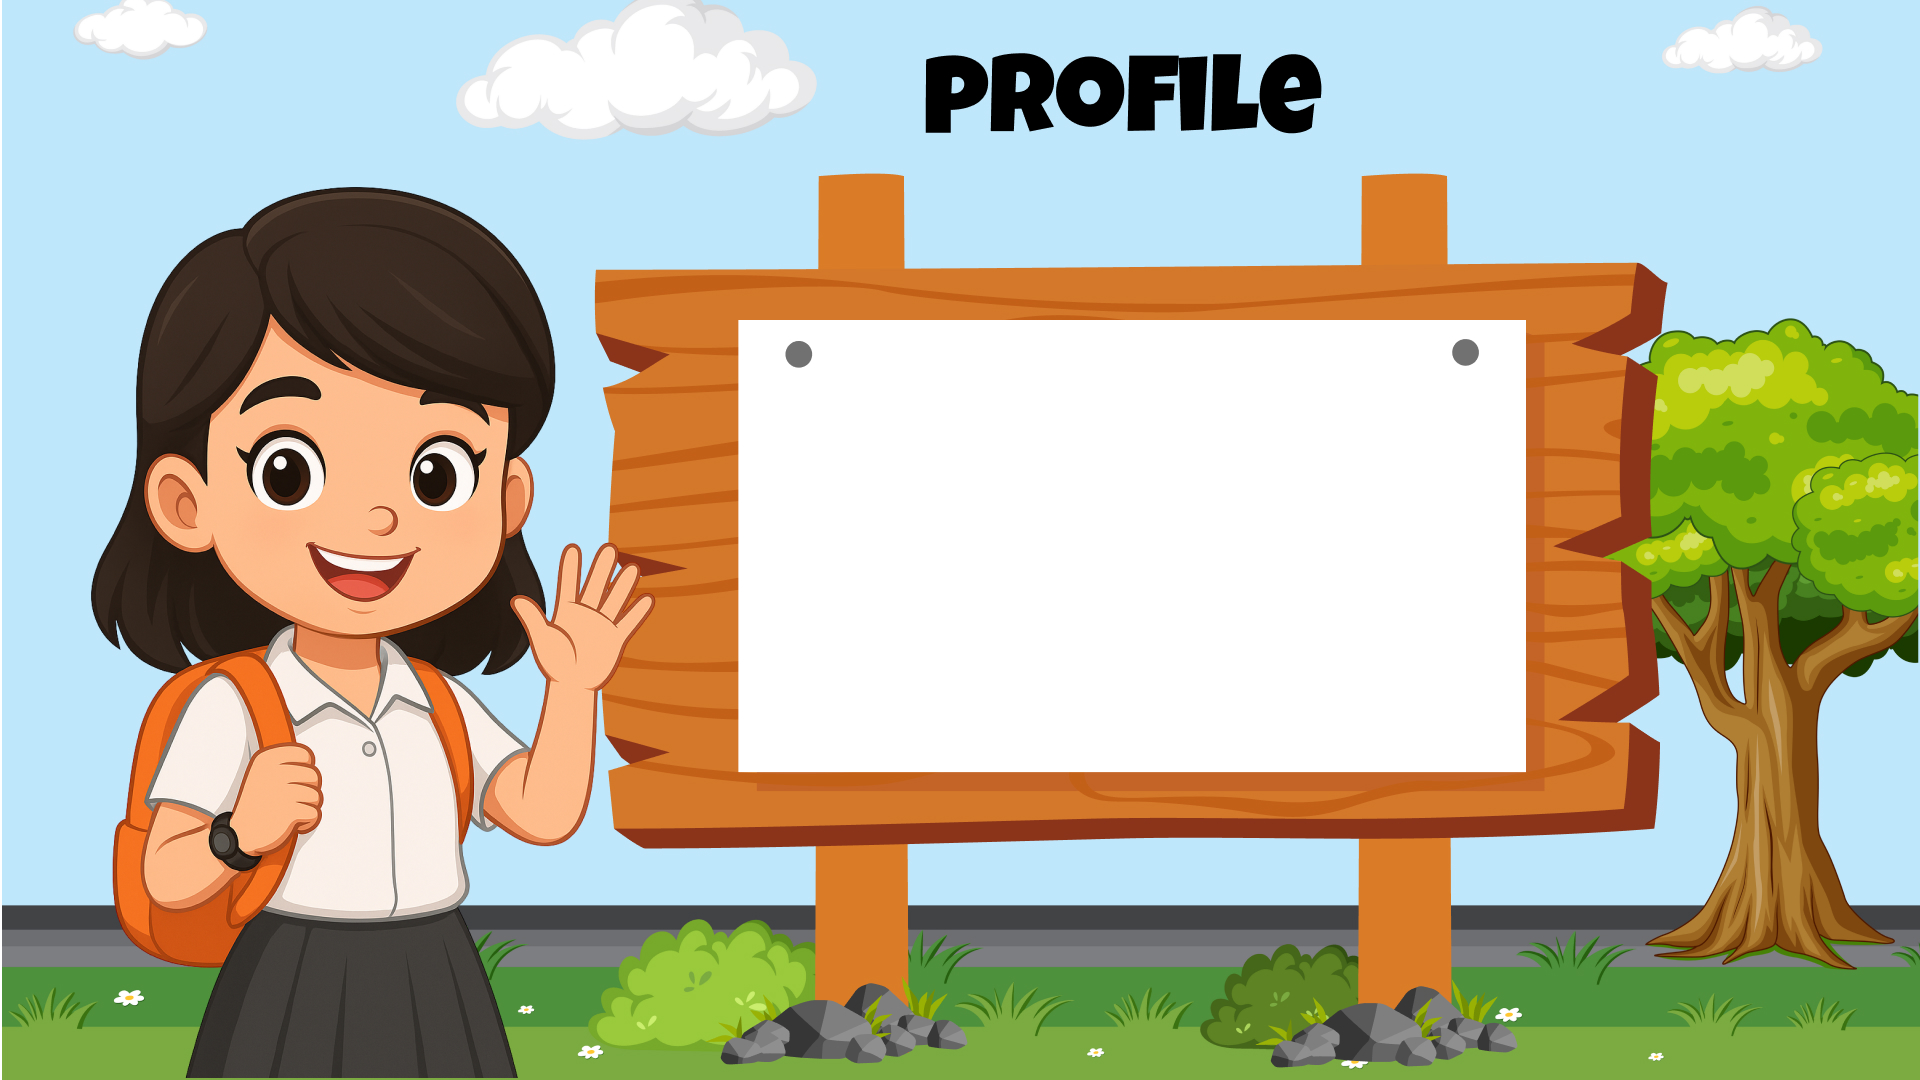
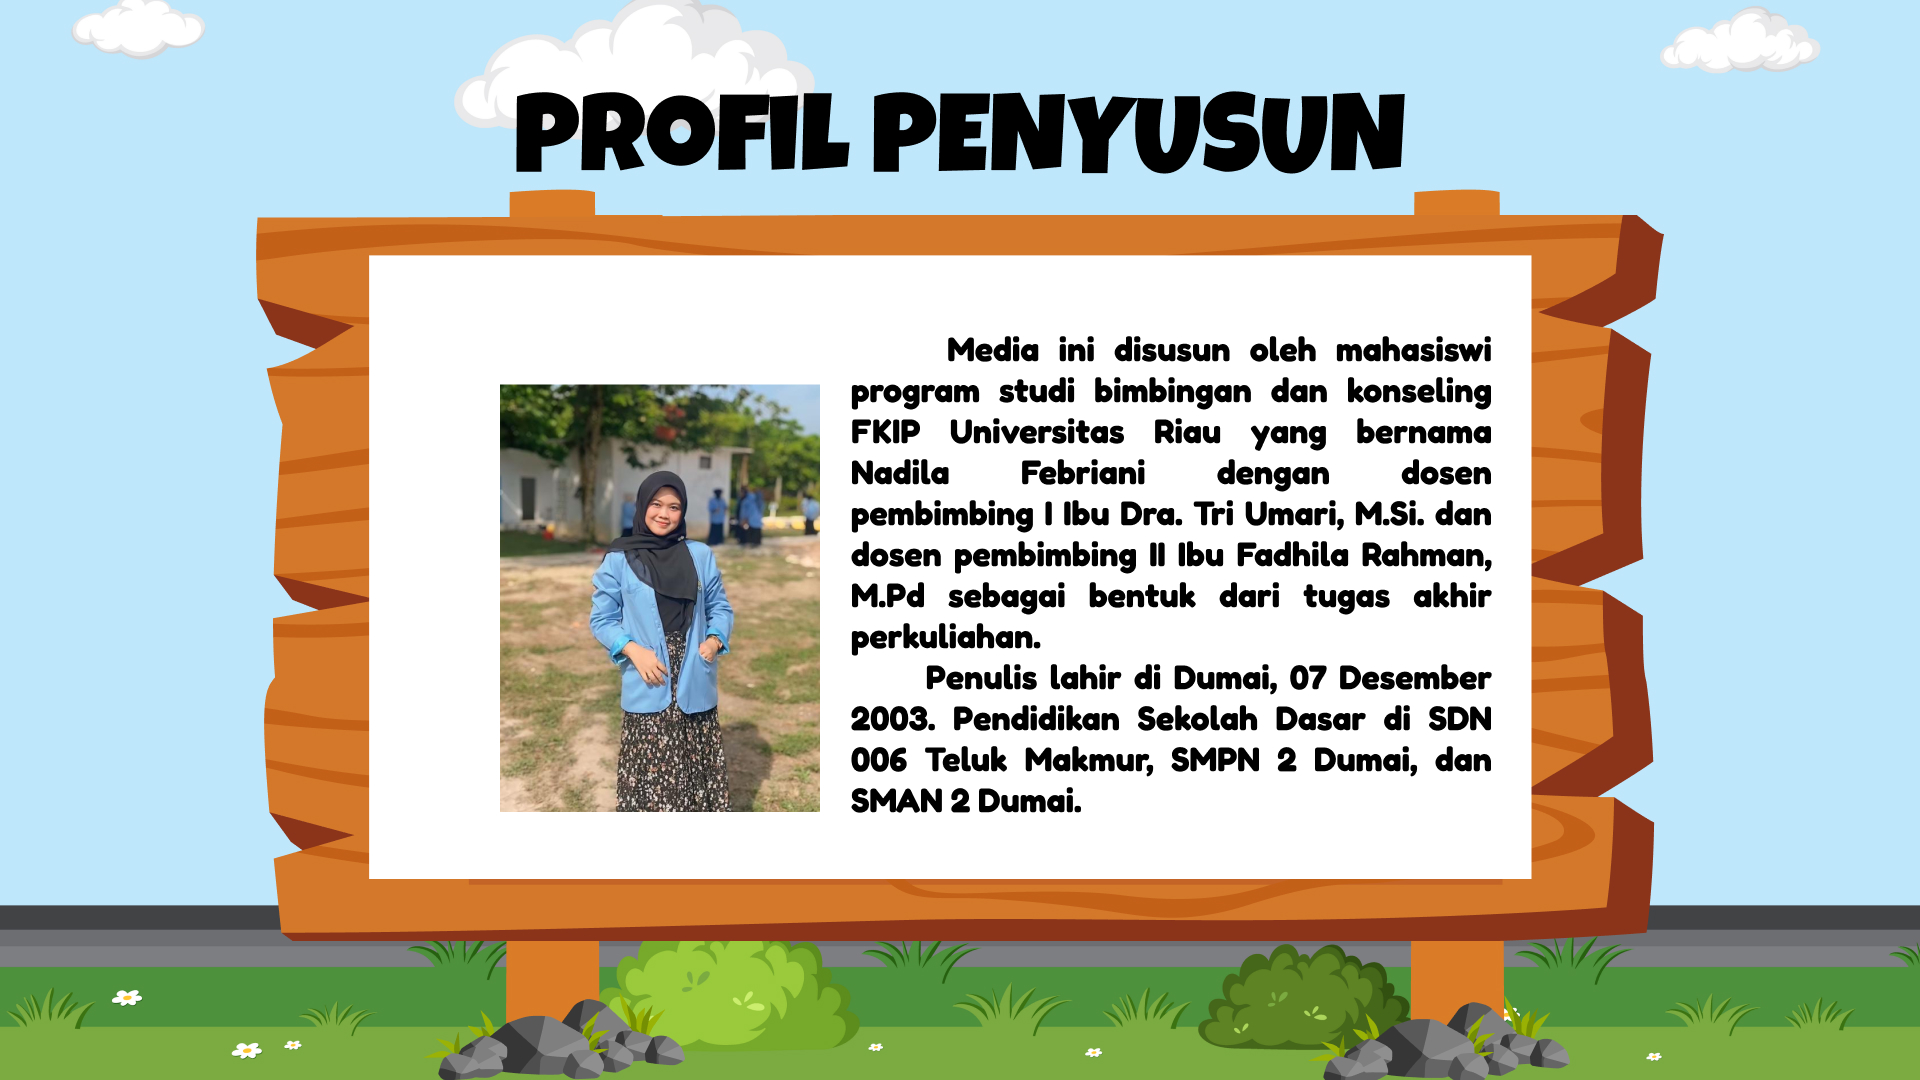
perbaikan profile

diff --git a/app/Livewire/LevelPlayer.php b/app/Livewire/LevelPlayer.php
@@ -179,7 +179,7 @@ class LevelPlayer extends Component
                 'q2' => [
                     'image' => 'images/pertanyaan-jawaban/p2-lv2.svg',
                     'correct_pairs' => [
-                        'fisik_1' => ['image' => 'images/pertanyaan-jawaban/fisik-1.svg', 'text' => 'menjambak dan mendorong seseorang dengan segaja'],
+                        'fisik_1' => ['image' => 'images/pertanyaan-jawaban/fisik-1.svg', 'text' => 'Menjambak dan mendorong seseorang dengan segaja'],
                         'fisik_2' => ['image' => 'images/pertanyaan-jawaban/fisik-2.svg', 'text' => 'Mendorong, memukul, atau melakukan kekerasan fisik lainnya'],
                     ],
                 ],
@@ -202,7 +202,7 @@ class LevelPlayer extends Component
                 // Ini adalah gabungan semua 'correct_pairs' dari atas
                 'verbal_1' => ['image' => 'images/pertanyaan-jawaban/verbal-1.svg', 'text' => 'Mengejek, mempermalukan, dan menghina seseorang dengan sengaja'],
                 'verbal_2' => ['image' => 'images/pertanyaan-jawaban/verbal-2.svg', 'text' => 'Memanggil nama-nama kasar, atau mengatakan hal-hal menyakitkan dengan sengaja.'],
-                'fisik_1' => ['image' => 'images/pertanyaan-jawaban/fisik-1.svg', 'text' => 'menjambak dan mendorong seseorang dengan segaja'],
+                'fisik_1' => ['image' => 'images/pertanyaan-jawaban/fisik-1.svg', 'text' => 'Menjambak dan mendorong seseorang dengan segaja'],
                 'fisik_2' => ['image' => 'images/pertanyaan-jawaban/fisik-2.svg', 'text' => 'Mendorong, memukul, atau melakukan kekerasan fisik lainnya'],
                 'sosial_1' => ['image' => 'images/pertanyaan-jawaban/sosial-1.svg', 'text' => 'Merusak reputasi sosial korban dan membuat lelucon yang merendahkan seseorang '],
                 'sosial_2' => ['image' => 'images/pertanyaan-jawaban/sosial-2.svg', 'text' => 'Menyebarkan rumor, menghasut seseorang, dan mengucilkan seseorang dari kelompok'],
